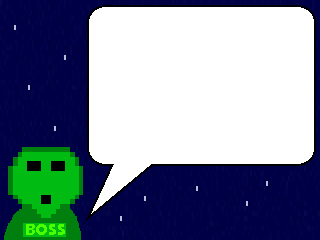
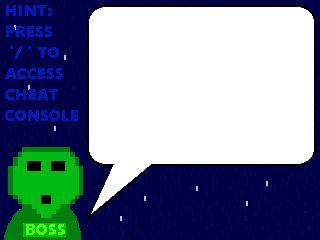
Final commit before LD submit

Changed region(s): [[0.0, 0.0, 0.25, 0.525]]

diff --git a/core/src/development/codenmore/ld33/console/Console.java b/core/src/development/codenmore/ld33/console/Console.java
@@ -15,6 +15,7 @@ import development.codenmore.ld33.entities.HumanShooter;
 import development.codenmore.ld33.entities.Rock;
 import development.codenmore.ld33.level.Level;
 import development.codenmore.ld33.particles.ParticleEmitter;
+import development.codenmore.ld33.ui.Background.NightCycle;
 
 public class Console {
 	
@@ -30,15 +31,15 @@ public class Console {
 	public static void tick(float delta){
 		if(show){
 			if(Gdx.input.isKeyJustPressed(Keys.BACKSPACE)){
-				if(text.length() > 1)
-					text = text.substring(0, text.length() - 2);
+				if(text.length() > 0)
+					text = text.substring(0, text.length() - 1);
 			}else if(Gdx.input.isKeyJustPressed(Keys.ENTER)){
 				submitCommand(text);
 				toggle();
 			}
 		}
 		
-		if(Gdx.input.isKeyJustPressed(Keys.GRAVE))
+		if(Gdx.input.isKeyJustPressed(Keys.GRAVE) || Gdx.input.isKeyJustPressed(Keys.SLASH))
 			toggle();
 	}
 	
@@ -50,13 +51,35 @@ public class Console {
 		{
 			batch.setColor(consoleColor);
 			batch.draw(Assets.getRegion("color"), x, y, width, height);
+			batch.setColor(Color.GRAY);
+			batch.draw(Assets.getRegion("color"), x, y - 400, width, 400);
 			batch.setColor(Color.WHITE);
 			
 			Assets.setFontColor(Color.WHITE);
 			Assets.setFontMicro();
+			Assets.getFont().getData().setLineHeight(12f);
 			Assets.drawString(batch, text, x + 5, y + 20);
+			Assets.drawString(batch, spacify("List of commands:\n\n"
+					+ "drewdrop cow [amount]\n"
+					+ "drewdrop human [amount]\n"
+					+ "drewdrop soldier [amount]\n"
+					+ "drewdrop rock [amount]\n"
+					+ "heal\n"
+					+ "suicide\n"
+					+ "clear\n"
+					+ "endless\n"
+					+ "notendless\n"
+					+ "party [amount]\n"
+					+ "night\n"
+					+ "day\n"
+					+ "speed [amount] ( 180 default )"), x + 5, y);
+			Assets.getFont().getData().setLineHeight(8.5f);
 		}
 		batch.end();
+	}
+	
+	public static String spacify(String str) {
+		return str.replaceAll(" ", "   ");
 	}
 	
 	//COMMANDS
@@ -69,6 +92,8 @@ public class Console {
 		
 		if(tokens.length >= 3 && tokens[0].equals("DREWDROP")){
 			int times = Integer.parseInt(tokens[2]);
+			if(times > 10000)
+				times = 10000;
 			
 			if(tokens[1].equals("COW")){
 				for(int i = 0;i < times;++i)
@@ -91,29 +116,40 @@ public class Console {
 			level.getEntityManager().getEntities().clear();
 			level.getEntityManager().add(level.getEntityManager().getPlayer());
 		}else if(tokens[0].equals("ENDLESS")){
-			if(level.getEntityManager().getPlayer().getHud().isEndless()){
-				level.getEntityManager().getPlayer().getHud().setRequiredQuota(25);
-				level.getBackground().setNightTime(30);
-				level.getEntityManager().getPlayer().getHud().setEndless(false);
-			}else{
+			if(!level.getEntityManager().getPlayer().getHud().isEndless()){
 				level.getEntityManager().getPlayer().getHud().setRequiredQuota(Integer.MAX_VALUE);
 				level.getBackground().setNightTime(Float.MAX_VALUE);
 				level.getEntityManager().getPlayer().getHud().setEndless(true);
 			}
+		}else if(tokens[0].equals("NOTENDLESS")){
+			if(level.getEntityManager().getPlayer().getHud().isEndless()){
+				level.getEntityManager().getPlayer().getHud().setRequiredQuota(25);
+				level.getBackground().setNightTime(30);
+				level.getEntityManager().getPlayer().getHud().setEndless(false);
+			}
 		}else if(tokens.length > 1 && tokens[0].equals("PARTY")){
 			int times = Integer.parseInt(tokens[1]);
+			if(times > 10000)
+				times = 10000;
+			
 			for(int i = 0;i < times;++i){
 				level.getEntityManager().addEmitter(new ParticleEmitter(
-						1000, 0f,
+						MathUtils.random(500, 800), 0f,
 						randomColor(), MathUtils.random(0, Main.WIDTH),
 						MathUtils.random(200, Main.HEIGHT - 200),
 						3, 3, 30, 50, 0, 360, 1, 3));
 			}
+		}else if(tokens[0].equals("NIGHT")){
+			level.getBackground().setNightCycle(NightCycle.DARK);
+		}else if(tokens[0].equals("DAY")){
+			level.getBackground().setNightCycle(NightCycle.LIGHT);
+		}else if(tokens.length > 1 && tokens[0].equals("SPEED")){
+			level.getEntityManager().getPlayer().setSpeed(Float.parseFloat(tokens[1]));
 		}
 	}
 	
 	public static Color randomColor(){
-		return Color.GREEN;
+		return new Color(MathUtils.random(1.0f), MathUtils.random(1.0f), MathUtils.random(1.0f), 1.0f);
 	}
 	
 	public static void toggle(){
@@ -129,7 +165,7 @@ public class Console {
 		if(!show)
 			return;
 		c = Character.toUpperCase(c);
-		if(c != ' ' && !Character.isDigit(c) && !Character.isAlphabetic(c))
+		if(c != ' ' && !Character.isDigit(c) && !Character.isLetter(c))
 			return;
 		text += c;
 	}

diff --git a/core/src/development/codenmore/ld33/entities/TractorBeam.java b/core/src/development/codenmore/ld33/entities/TractorBeam.java
@@ -1,11 +1,13 @@
 package development.codenmore.ld33.entities;
 
+import com.badlogic.gdx.graphics.Color;
 import com.badlogic.gdx.graphics.g2d.SpriteBatch;
 import com.badlogic.gdx.graphics.g2d.TextureRegion;
 import com.badlogic.gdx.math.Rectangle;
 
 import development.codenmore.ld33.Handler;
 import development.codenmore.ld33.assets.Assets;
+import development.codenmore.ld33.particles.ParticleEmitter;
 
 public class TractorBeam {
 
@@ -13,11 +15,14 @@ public class TractorBeam {
 	private Entity entity;
 	private static final float SPEED = 500f, RETRACT_SPEED = SPEED, OFFSET = 3f;
 	public static final float BEAMENERGYTIME = 7.5f, REFILL = BEAMENERGYTIME / 2f;
+	private static final Color brownColor = new Color(.64f, .18f, .18f, 1.0f);
 	private static TextureRegion texture = Assets.getRegion("beam");
 	private float y = 0f;
 	private int width = 34, height = 1;
 	// Beam specifications
 	private boolean emit = false, doDraw = false;
+	private boolean hitFloor = false;
+	private float floorTimer = 0f, floorTime = 0.2f;
 	// Energy specifications
 	private float timer = 0f;
 	private boolean powerOut = false;
@@ -37,8 +42,21 @@ public class TractorBeam {
 			height += SPEED * delta;
 			y = entity.getY() - height + OFFSET;
 			if(y < Handler.getLevel().getGroundLevel()){
+				if(!hitFloor){
+					hitFloor = true;
+					floorTimer = 0f;
+					Handler.getLevel().getEntityManager().addEmitter(new ParticleEmitter(
+							20, 0f, brownColor,
+							Handler.getLevel().getEntityManager().getPlayer().getX() + 32,
+							y + 16, 3, 3, 20, 25, 190, 350, 1, 1.5f));
+				}
 				y = Handler.getLevel().getGroundLevel();
 				height = (int) (entity.getY() - Handler.getLevel().getGroundLevel() + OFFSET);
+			}else{
+				floorTimer += delta;
+				if(floorTimer > floorTime){					
+					hitFloor = false;
+				}
 			}
 			doDraw = true;
 		}else if(doDraw){

diff --git a/core/src/development/codenmore/ld33/particles/ParticleEmitter.java b/core/src/development/codenmore/ld33/particles/ParticleEmitter.java
@@ -15,11 +15,12 @@ public class ParticleEmitter {
 	private int amount, generated;
 	private float rate, timer = 0f;
 	private int particleWidth, particleHeight;
-	private int minSpeed, maxSpeed, minAngle, maxAngle, minLife, maxLife;
+	private int minSpeed, maxSpeed, minAngle, maxAngle;
+	private float minLife, maxLife;
 
 	public ParticleEmitter(int amount, float rate, Color color, float x, float y,
 			int particleWidth, int particleHeight, int minSpeed, int maxSpeed,
-			int minAngle, int maxAngle, int minLife, int maxLife) {
+			int minAngle, int maxAngle, float minLife, float maxLife) {
 		this.amount = amount;
 		this.rate = rate;
 		this.color = color;
@@ -70,7 +71,7 @@ public class ParticleEmitter {
 		int speed = MathUtils.random(minSpeed, maxSpeed);
 		float angleX = speed * MathUtils.cos(angleR);
 		float angleY = -speed * MathUtils.sin(angleR);
-		int particleMaxLife = MathUtils.random(minLife, maxLife);
+		float particleMaxLife = MathUtils.random(minLife, maxLife);
 		particles.add(new Particle(x, y, particleWidth, particleHeight, angleX, angleY, particleMaxLife));
 		generated++;
 	}

diff --git a/core/src/development/codenmore/ld33/ui/Background.java b/core/src/development/codenmore/ld33/ui/Background.java
@@ -9,7 +9,7 @@ import development.codenmore.ld33.assets.Assets;
 public class Background {
 	
 	//Cycle
-	private enum NightCycle{
+	public enum NightCycle{
 		DARK(Assets.getRegion("blackSky")),
 		MEDIUM(Assets.getRegion("blueSky")),
 		LIGHT(Assets.getRegion("lightSky"));
@@ -72,6 +72,10 @@ public class Background {
 
 	public void setNightTime(float nightTime) {
 		this.nightTime = nightTime;
+	}
+	
+	public void setNightCycle(NightCycle nightCycle){
+		this.nightCycle = nightCycle;
 	}
 
 }

diff --git a/core/src/development/codenmore/ld33/entities/Player.java b/core/src/development/codenmore/ld33/entities/Player.java
@@ -121,6 +121,10 @@ public class Player extends Entity {
 			beam.setEmit(false);
 		}
 	}
+	
+	public void setSpeed(float speed){
+		movementComponent.setSpeed(speed);
+	}
 
 	private void setRotation() {
 		if (movementComponent.getX() < -rotateSpeedThreshhold) {

diff --git a/core/src/development/codenmore/ld33/assets/Assets.java b/core/src/development/codenmore/ld33/assets/Assets.java
@@ -66,6 +66,10 @@ public class Assets {
 		return ret;
 	}
 	
+	public static BitmapFont getFont(){
+		return font;
+	}
+	
 	public static void setFontMicro(){
 		font.getData().setScale(1.8f);
 	}
